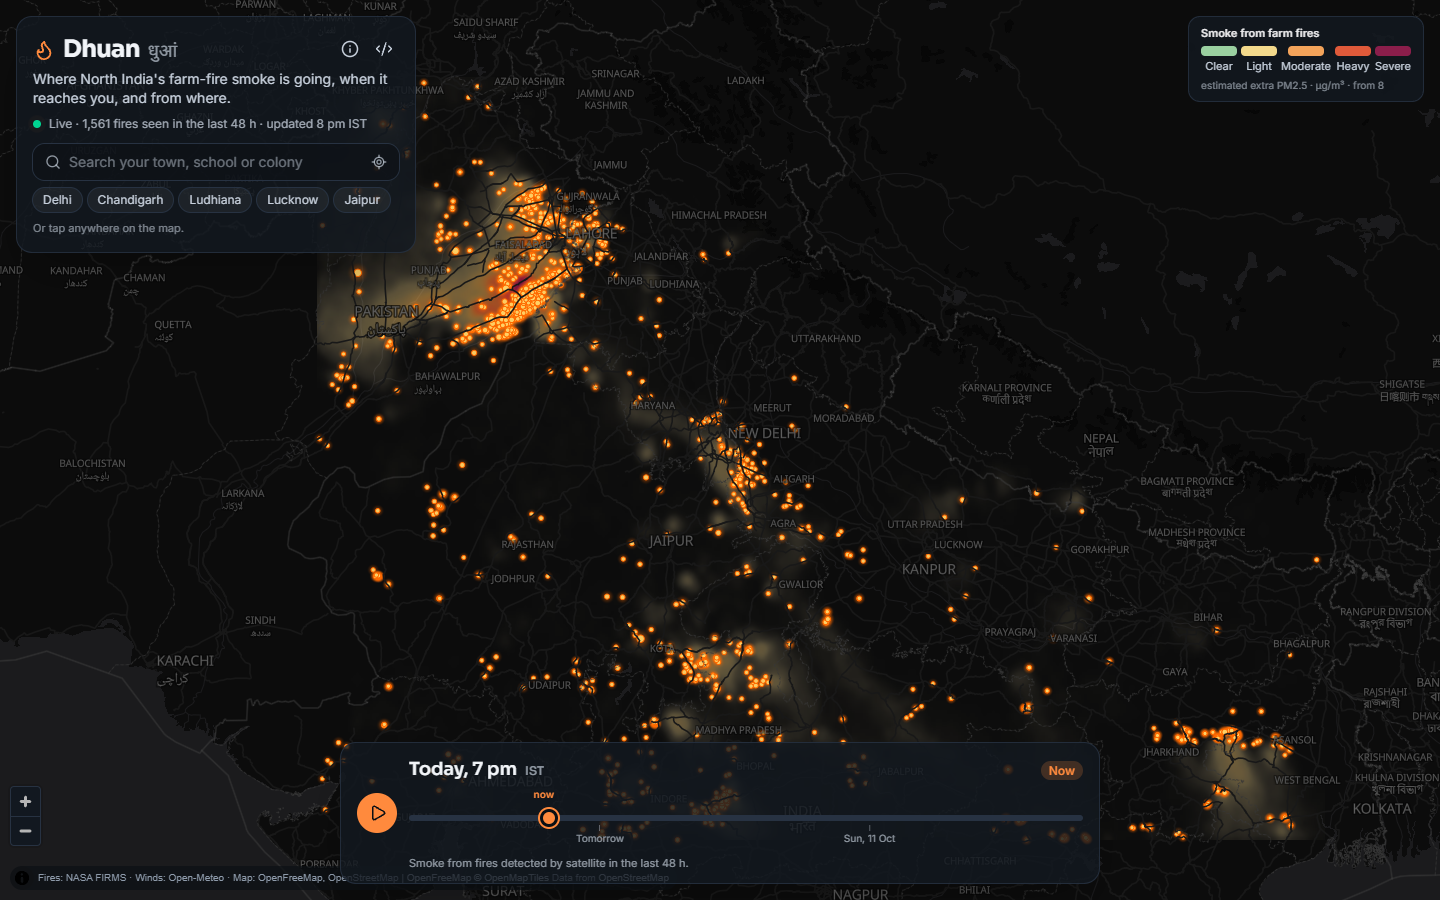
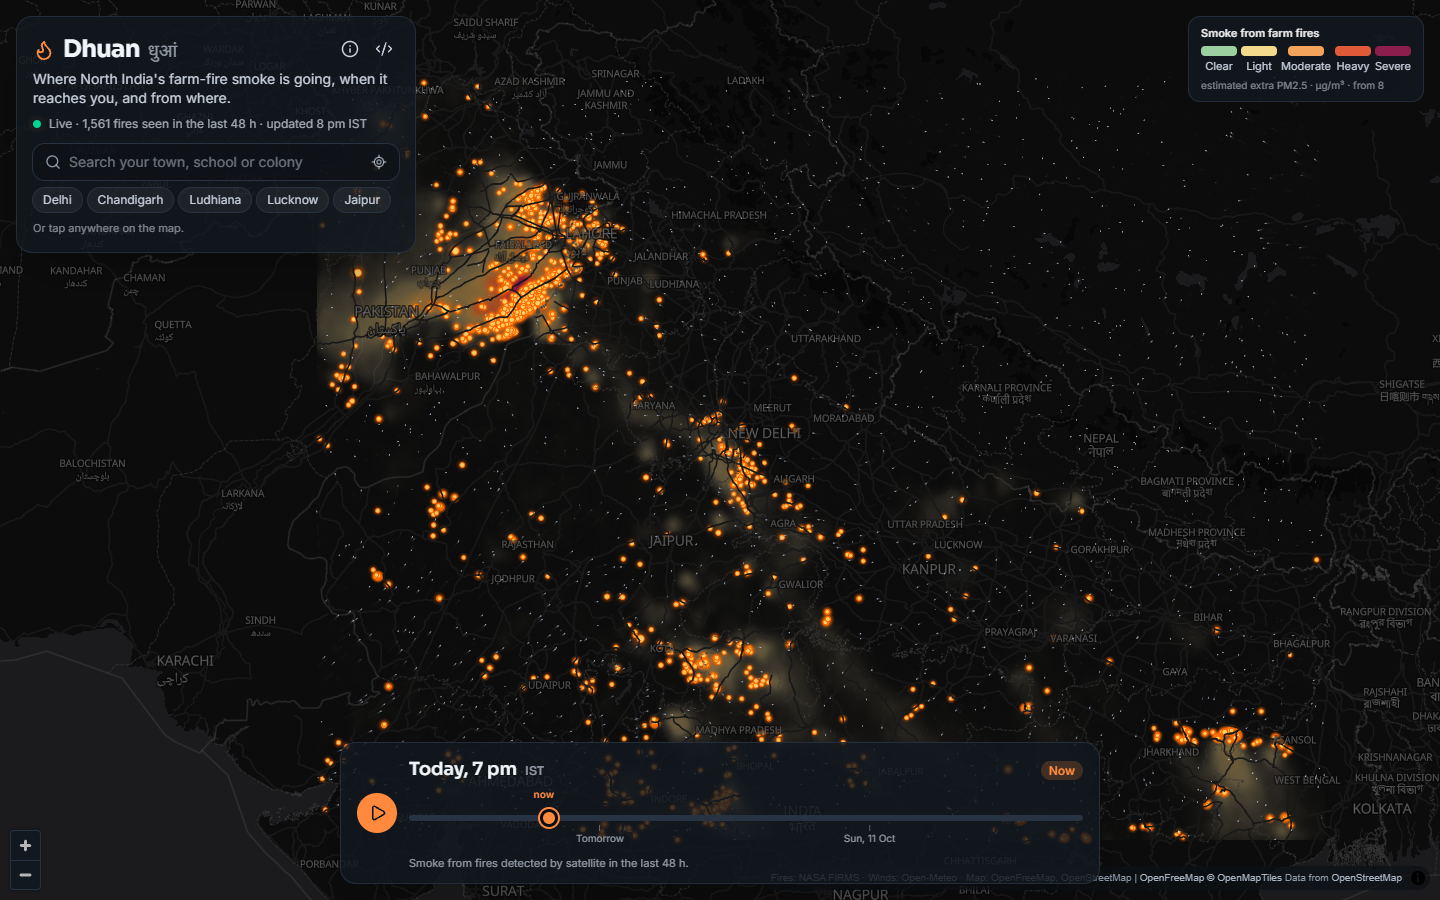
Shareable place links, attribution moved clear of the timeline, live screenshots

Changed region(s): [[0.0, 0.8711, 0.2188, 0.9956], [0.75, 0.9644, 1.0, 0.9956]]

diff --git a/frontend/src/components/PlacePanel.tsx b/frontend/src/components/PlacePanel.tsx
@@ -1,4 +1,4 @@
-import { Bell, Check, Loader2, Mail, Send, X } from 'lucide-react'
+import { Bell, Check, Link2, Loader2, Mail, Send, X } from 'lucide-react'
 import { useEffect, useState } from 'react'
 import { api, type Advisory, type Place, type PointForecast } from '../api'
 import { BAND_COLOR, istTime, relativeDay } from '../format'
@@ -23,6 +23,17 @@ export default function PlacePanel({ place, forecast, loading, error, frame, onF
   const [lang, setLang] = useState<'en' | 'hi' | 'pa'>('en')
   const [advisory, setAdvisory] = useState<Advisory | null>(null)
   const [advLoading, setAdvLoading] = useState(false)
+  const [copied, setCopied] = useState(false)
+
+  const share = async () => {
+    try {
+      await navigator.clipboard.writeText(window.location.href)
+      setCopied(true)
+      window.setTimeout(() => setCopied(false), 1800)
+    } catch {
+      /* clipboard blocked: the URL bar already has the link */
+    }
+  }
 
   useEffect(() => {
     if (!forecast) return
@@ -47,9 +58,15 @@ export default function PlacePanel({ place, forecast, loading, error, frame, onF
             {place.lat.toFixed(2)}°N, {place.lon.toFixed(2)}°E
           </div>
         </div>
-        <button onClick={onClose} aria-label="Close" className="rounded-full p-1 text-mist/70 hover:bg-white/10 hover:text-white">
-          <X size={18} />
-        </button>
+        <div className="flex shrink-0 items-center gap-1">
+          <button onClick={share} title="Copy a link to this place" aria-label="Copy a link to this place" className="flex items-center gap-1 rounded-full px-2 py-1 text-xs text-mist/70 hover:bg-white/10 hover:text-white">
+            {copied ? <Check size={14} className="text-emerald-300" /> : <Link2 size={14} />}
+            {copied ? 'Copied' : 'Share'}
+          </button>
+          <button onClick={onClose} aria-label="Close" className="rounded-full p-1 text-mist/70 hover:bg-white/10 hover:text-white">
+            <X size={18} />
+          </button>
+        </div>
       </div>
 
       <div className="scroll-thin min-h-0 flex-1 overflow-y-auto px-4 pb-4">

diff --git a/frontend/src/App.tsx b/frontend/src/App.tsx
@@ -22,6 +22,20 @@ export default function App() {
   const [fcError, setFcError] = useState<string | null>(null)
   const [about, setAbout] = useState(false)
 
+  // a shared link opens straight on its place: ?lat=..&lon=..&name=..
+  useEffect(() => {
+    const q = new URLSearchParams(window.location.search)
+    const lat = Number(q.get('lat'))
+    const lon = Number(q.get('lon'))
+    if (Number.isFinite(lat) && Number.isFinite(lon) && q.has('lat') && q.has('lon')) {
+      setPlace({ name: q.get('name') || `${lat.toFixed(2)}°N, ${lon.toFixed(2)}°E`, lat, lon })
+    }
+  }, [])
+  useEffect(() => {
+    const url = place ? `?lat=${place.lat.toFixed(4)}&lon=${place.lon.toFixed(4)}&name=${encodeURIComponent(place.name)}` : window.location.pathname
+    window.history.replaceState(null, '', url)
+  }, [place])
+
   // the latest run, then warm the browser cache with its frames (nearest hours first)
   useEffect(() => {
     api

diff --git a/frontend/src/components/SmokeMap.tsx b/frontend/src/components/SmokeMap.tsx
@@ -50,7 +50,7 @@ export default function SmokeMap({ meta, frame, place, onPick }: Props) {
       maxZoom: 11,
       attributionControl: false,
     })
-    m.addControl(new maplibregl.AttributionControl({ compact: true, customAttribution: 'Fires: NASA FIRMS · Winds: Open-Meteo · Map: OpenFreeMap, OpenStreetMap' }), 'bottom-left')
+    m.addControl(new maplibregl.AttributionControl({ compact: true, customAttribution: 'Fires: NASA FIRMS · Winds: Open-Meteo · Map: OpenFreeMap, OpenStreetMap' }), 'bottom-right')
     m.addControl(new maplibregl.NavigationControl({ showCompass: false }), 'bottom-left')
     m.on('click', (e: MapMouseEvent) => pick.current(e.lngLat.lat, e.lngLat.lng))
     m.on('load', () => {
